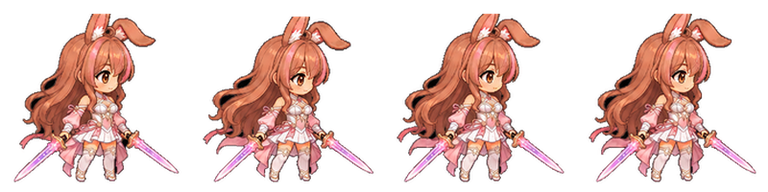
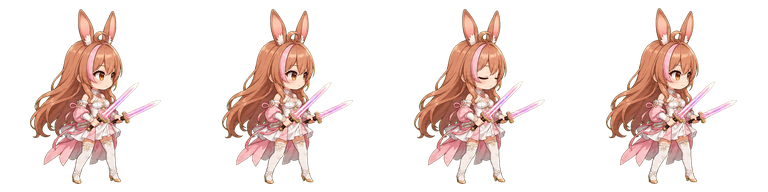
Added lot of skins + effects VFX

diff --git a/assets/player/skins/cake_deliver_cherry/README.md b/assets/player/skins/cake_deliver_cherry/README.md
@@ -1,0 +1,47 @@
+# Cake Deliver Cherry — Common Hybrid
+
+Cake Deliver Cherry uses the canonical Cherry character template. Cherry's
+face, warm brown eyes, peach-pink hair color and volume, bunny-ear shape, loop
+ahoge, compact body proportions, scale, and four-direction silhouette remain
+fixed. Only the cake-shop delivery uniform and Hybrid skill presentation
+change.
+
+## Gameplay
+
+- Rarity: Common
+- Type: Hybrid
+- Passive: +1% ATK Bonus and +1% HP Bonus
+- Attack: standard Base Cherry ranged attack with one pink magical orb
+- Skill: Pink Burst
+  - damages nearby enemies
+  - knocks enemies outward
+  - grants +5% Movement Speed for 1 second
+
+## Sprite layout
+
+- Cell size: 192×192 px
+- Pivot: x=96, y=184
+- Idle: 4 frames per direction
+- Walk, Attack, Skill: 6 frames per direction
+- Directions: Down, Up, Left, Right
+- Format: RGBA PNG with transparent background
+- Left sheets are exact per-frame mirrors of Right sheets
+
+## Canonical rear-view rules
+
+- The loop-shaped ahoge/antenna remains visible.
+- The pink front hair strand is hidden.
+- Bunny ears show only their plain fur-covered backs.
+- No inner pink ear panels or white inner-ear tufts are visible.
+- Cherry's face is never visible from the Up/rear direction.
+
+## Outfit
+
+- White and pastel-pink cake-shop delivery uniform
+- Off-shoulder blouse with pink piping and layered ruffled sleeves
+- Rose-pink ribbon choker
+- Fitted white apron with pale-pink trim and bunny-emblem pocket
+- Tiny cherry charm and large rose-pink back waist bow
+- Dusty rose-pink fitted trousers
+- White-and-pink closed shoes
+- No cake, tray, drink, box, food, utensil, or other prop is baked into sprites

diff --git a/assets/player/skins/pajama_cherry/README.md b/assets/player/skins/pajama_cherry/README.md
@@ -1,0 +1,44 @@
+# Pajama Cherry — Common Defensive
+
+Pajama Cherry uses the canonical Cherry character template. Cherry's face,
+warm brown eyes, peach-pink hair color and volume, bunny-ear shape, loop ahoge,
+compact body proportions, scale, and four-direction silhouette remain fixed.
+Only the pajama outfit and Defensive skill presentation change.
+
+## Gameplay
+
+- Rarity: Common
+- Type: Defensive
+- Passive: +2% HP Bonus
+- Attack: standard Base Cherry ranged attack with a soft pink orb
+- Skill: Shield
+  - duration: 2 seconds
+  - blocks incoming attacks
+  - restores 10% HP
+
+## Sprite layout
+
+- Cell size: 192×192 px
+- Pivot: x=96, y=184
+- Idle: 4 frames per direction
+- Walk, Attack, Skill: 6 frames per direction
+- Directions: Down, Up, Left, Right
+- Format: RGBA PNG with transparent background
+- Left sheets are exact per-frame mirrors of Right sheets
+
+## Canonical rear-view rules
+
+- The loop-shaped ahoge/antenna remains visible.
+- The pink front hair strand is hidden.
+- Bunny ears show only their plain fur-covered backs.
+- No inner pink ear panels or white inner-ear tufts are visible.
+- Cherry's face is never visible from the Up/rear direction.
+
+## Outfit
+
+- Oversized pastel-pink pajama sweatshirt
+- White bunny-face graphic and tiny cherry emblem
+- Matching drawstring sleep shorts with scalloped trim
+- Pink-and-white striped soft socks with pom-poms
+- Plush bunny slippers
+

diff --git a/assets/player/skins/sport_cherry/README.md b/assets/player/skins/sport_cherry/README.md
@@ -1,0 +1,45 @@
+# Sport Cherry — Common Defensive
+
+This pack rebuilds Sport Cherry from the canonical Cherry character template.
+Only the outfit and the Defensive skill presentation change; Cherry's face,
+hair, colors, bunny ears, loop ahoge, body proportions, scale, and directional
+silhouette follow the shared base template.
+
+## Gameplay
+
+- Rarity: Common
+- Type: Defensive
+- Passive: +2% HP Bonus
+- Attack: standard Base Cherry ranged attack with a pink sport-themed cast glow
+- Skill: Shield
+  - duration: 2 seconds
+  - blocks incoming attacks
+  - restores 10% HP
+
+## Sprite layout
+
+- Cell size: 192×192 px
+- Pivot: x=96, y=184
+- Idle: 4 frames per direction
+- Walk, Attack, Skill: 6 frames per direction
+- Directions: Down, Up, Left, Right
+- Format: RGBA PNG with transparent background
+- Left sheets are exact per-frame mirrors of Right sheets
+
+## Canonical rear-view rules
+
+- The loop-shaped ahoge/antenna remains visible.
+- The pink front hair strand is hidden.
+- Bunny ears show only their plain fur-covered backs.
+- No inner pink ear panels or white inner-ear tufts are visible.
+- Cherry's face is never visible from the Up/rear direction.
+
+## Outfit
+
+- White athletic crop top with pastel-pink panels and piping
+- Tiny cherry emblem
+- Pastel-pink running shorts with white piping and drawstring
+- Pink wristbands
+- White socks with pink stripes
+- Pink-and-white running shoes
+

diff --git a/assets/player/skins/kimono_cherry/README.md b/assets/player/skins/kimono_cherry/README.md
@@ -1,0 +1,46 @@
+# Kimono Cherry — Common Support
+
+Kimono Cherry uses the canonical Cherry character template. Cherry's face,
+warm brown eyes, peach-pink hair color and volume, bunny-ear shape, loop ahoge,
+compact body proportions, scale, and four-direction silhouette remain fixed.
+Only the outfit and the Support skill presentation change.
+
+## Gameplay
+
+- Rarity: Common
+- Type: Support
+- Passive:
+  - +1% Movement Speed
+  - +1% HP Recovery
+- Attack: standard Base Cherry ranged attack with a soft pink blossom orb
+- Skill: Healing
+  - restores 40% HP
+  - grants +5% Movement Speed for 2 seconds
+
+## Sprite layout
+
+- Cell size: 192×192 px
+- Pivot: x=96, y=184
+- Idle: 4 frames per direction
+- Walk, Attack, Skill: 6 frames per direction
+- Directions: Down, Up, Left, Right
+- Format: RGBA PNG with transparent background
+- Left sheets are exact per-frame mirrors of Right sheets
+
+## Canonical rear-view rules
+
+- The loop-shaped ahoge/antenna remains visible.
+- The pink front hair strand is hidden.
+- Bunny ears show only their plain fur-covered backs.
+- No inner pink ear panels or white inner-ear tufts are visible.
+- Cherry's face is never visible from the Up/rear direction.
+
+## Outfit
+
+- Pale blush-pink and white floral kimono
+- Sakura and tiny cherry motifs
+- Deeper rose-pink obi with bow and tassel
+- Wide kimono sleeves
+- White tabi socks
+- Pink-strapped wooden zori sandals
+

diff --git a/assets/player/skins/school_uniform_cherry/README.md b/assets/player/skins/school_uniform_cherry/README.md
@@ -1,0 +1,42 @@
+# School Uniform Cherry — Hybrid Common Skin
+
+## Gameplay identity
+
+- Rarity: `Common`
+- Type: `Hybrid`
+- Passive: `+1% ATK Bonus`, `+1% HP Bonus`
+- Attack: standard Base Cherry ranged attack with a pink casting cue
+- Skill: `Pink Burst`
+  - damages and knocks enemies backward
+  - grants `+5% Movement Speed` for `1 second`
+
+## Sprite format
+
+- Cell size: `192 × 192 px`
+- Pivot: `x=96`, ground line `y=184`
+- Background: true RGBA transparency (`alpha=0`)
+- Idle: `4` frames per direction
+- Walk, Attack, Skill: `6` frames per direction
+- Directions: `down`, `up`, `left`, `right`
+- Left-facing sheets are exact per-cell mirrors of the right-facing sheets.
+
+## Master sheet row order
+
+1. Idle Down
+2. Idle Up
+3. Idle Left
+4. Idle Right
+5. Walk Down
+6. Walk Up
+7. Walk Left
+8. Walk Right
+9. Attack Down
+10. Attack Up
+11. Attack Left
+12. Attack Right
+13. Skill Down
+14. Skill Up
+15. Skill Left
+16. Skill Right
+
+The master sheet is `1152 × 3072 px`; unused cells at the end of Idle rows are transparent.
